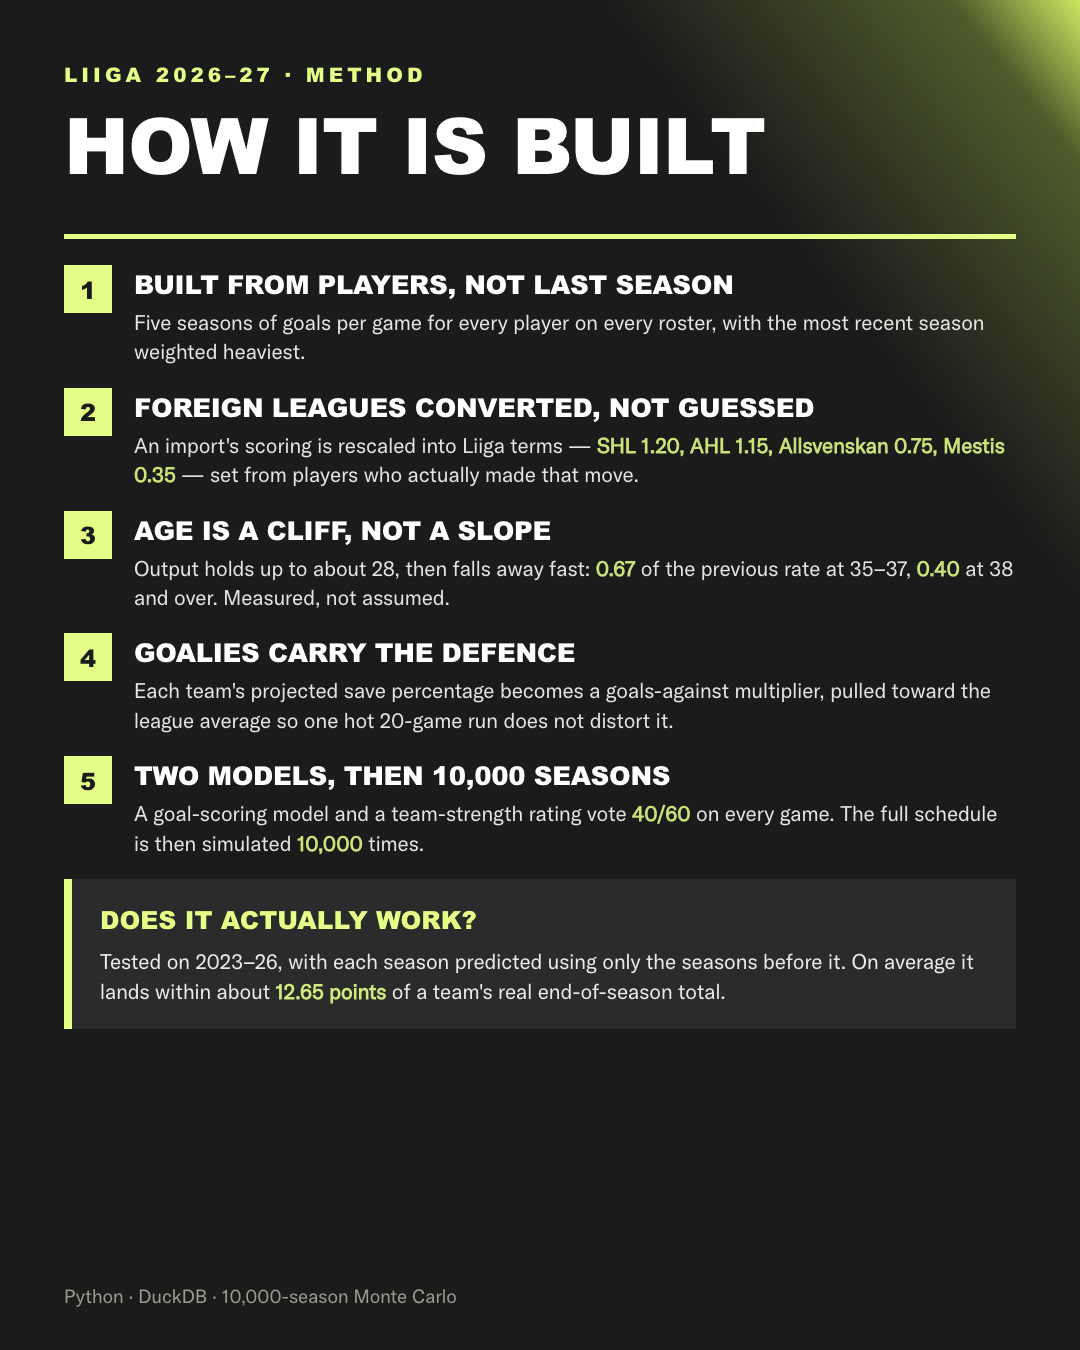
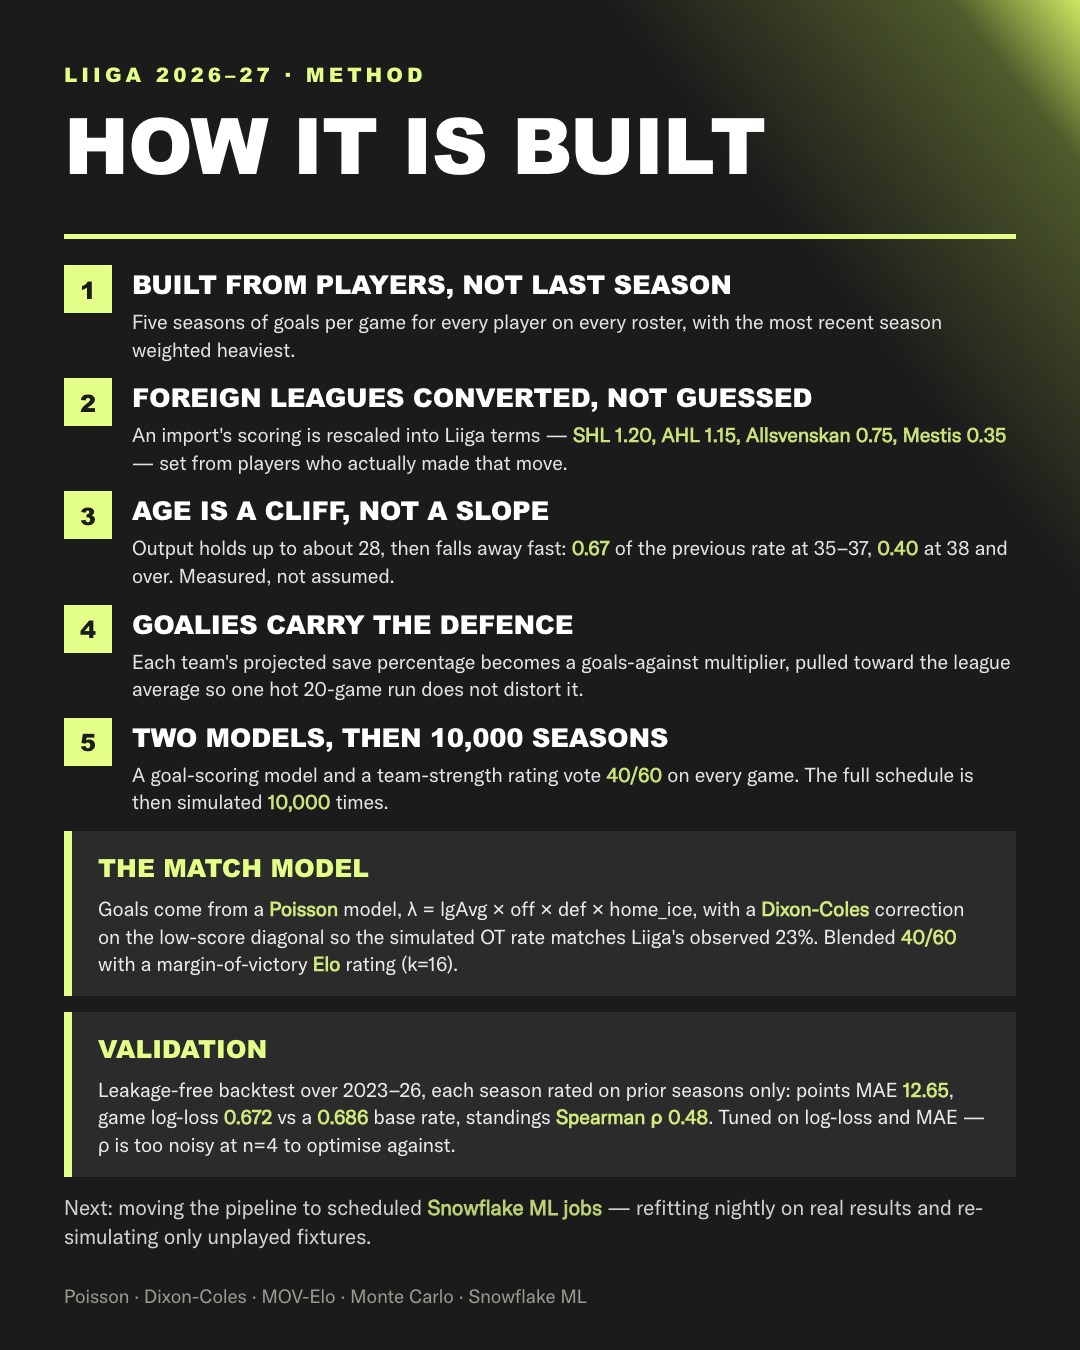
Carousel: drop slide 5, fold match model + validation into slide 4
Carousel is now four slides. The match-model and validation callouts move onto
the method slide, which had roughly 20% unused height; tightened step spacing
and body type slightly to fit them without overflow.

Kept the Snowflake ML message as a closing line on slide 4 rather than losing
it with slide 5 -- it was an explicit earlier requirement. Say the word if it
should go entirely.

Removed the stale slide_5 png/html, trimmed GRADIENTS to four, and updated the
module docstring and preview page, which both still described a five-slide set.

Changed region(s): [[0.0611, 0.1867, 0.9472, 0.9644], [0.5806, 0.8711, 0.8861, 0.9022]]

diff --git a/site_instagram/slide_4.html b/site_instagram/slide_4.html
@@ -41,7 +41,7 @@
   .ptsr { font-size:21px; color:#e3ff87; margin-top:5px; opacity:0.85; }
 
   /* ---- technical slides ---- */
-  .step { display:flex; gap:22px; margin-bottom:21px; align-items:flex-start; }
+  .step { display:flex; gap:20px; margin-bottom:15px; align-items:flex-start; }
   .num { min-width:48px; height:48px; background:#e3ff87; color:#1b1b1b;
          font-family:"GT America Expanded","Arial Black",Arial,sans-serif; font-size:24px; display:flex;
          align-items:center; justify-content:center; }
@@ -49,14 +49,17 @@
      otherwise every highlighted parameter becomes its own block heading */
   .txt > b { font-family:"GT America Expanded","Arial Black",Arial,sans-serif; font-size:26px; display:block; color:#FFFFFF;
              margin-bottom:6px; text-transform:uppercase; letter-spacing:-0.3px; }
-  .txt span { font-size:21px; line-height:1.4; color:#FFFFFF; opacity:0.88; }
+  .txt span { font-size:20px; line-height:1.38; color:#FFFFFF; opacity:0.88; }
   .txt span b, .callout span b { color:#e3ff87; opacity:1; }
   .callout { background:rgba(255,255,255,0.07); border-left:8px solid #e3ff87;
-             padding:22px 28px; margin-top:4px; }
+             padding:18px 26px; margin-top:4px; }
   .callout > b { font-family:"GT America Expanded","Arial Black",Arial,sans-serif; font-size:25px; display:block;
                  margin-bottom:10px; color:#e3ff87; text-transform:uppercase; }
-  .callout span { font-size:21px; line-height:1.42; color:#FFFFFF; opacity:0.9; }
+  .callout span { font-size:20px; line-height:1.38; color:#FFFFFF; opacity:0.9; }
   .big { font-size:29px; line-height:1.4; color:#FFFFFF; }
+  .next { font-size:21px; line-height:1.4; margin-top:16px; color:#FFFFFF;
+          opacity:0.8; }
+  .next b { color:#e3ff87; opacity:1; }
 </style></head><body>
   <div class="slide">
     <div class="head">
@@ -67,11 +70,24 @@
     <div class="body">
       <div class="step"><div class="num">1</div><div class="txt"><b>Built from players, not last season</b><span>Five seasons of goals per game for every player on every roster, with the most recent season weighted heaviest.</span></div></div><div class="step"><div class="num">2</div><div class="txt"><b>Foreign leagues converted, not guessed</b><span>An import's scoring is rescaled into Liiga terms — <b>SHL 1.20, AHL 1.15, Allsvenskan 0.75, Mestis 0.35</b> — set from players who actually made that move.</span></div></div><div class="step"><div class="num">3</div><div class="txt"><b>Age is a cliff, not a slope</b><span>Output holds up to about 28, then falls away fast: <b>0.67</b> of the previous rate at 35–37, <b>0.40</b> at 38 and over. Measured, not assumed.</span></div></div><div class="step"><div class="num">4</div><div class="txt"><b>Goalies carry the defence</b><span>Each team's projected save percentage becomes a goals-against multiplier, pulled toward the league average so one hot 20-game run does not distort it.</span></div></div><div class="step"><div class="num">5</div><div class="txt"><b>Two models, then 10,000 seasons</b><span>A goal-scoring model and a team-strength rating vote <b>40/60</b> on every game. The full schedule is then simulated <b>10,000</b> times.</span></div></div>
       <div class="callout">
-        <b>Does it actually work?</b>
-        <span>Tested on 2023–26, with each season predicted using only the
-        seasons before it. On average it lands within about
-        <b>12.65 points</b> of a team's real end-of-season total.</span>
+        <b>The match model</b>
+        <span>Goals come from a <b>Poisson</b> model,
+        λ = lgAvg × off × def × home_ice, with a <b>Dixon-Coles</b> correction
+        on the low-score diagonal so the simulated OT rate matches Liiga's
+        observed 23%. Blended <b>40/60</b> with a
+        margin-of-victory <b>Elo</b> rating (k=16).</span>
       </div>
+      <div class="callout" style="margin-top:16px">
+        <b>Validation</b>
+        <span>Leakage-free backtest over 2023–26, each season rated on prior
+        seasons only: points MAE <b>12.65</b>, game log-loss
+        <b>0.672</b> vs a <b>0.686</b> base rate, standings
+        <b>Spearman ρ 0.48</b>. Tuned on log-loss and MAE — ρ is too noisy at
+        n=4 to optimise against.</span>
+      </div>
+      <p class="next">Next: moving the pipeline to scheduled
+      <b>Snowflake ML jobs</b> — refitting nightly on real results and
+      re-simulating only unplayed fixtures.</p>
     </div>
-    <div class="foot">Python · DuckDB · 10,000-season Monte Carlo</div>
+    <div class="foot">Poisson · Dixon-Coles · MOV-Elo · Monte Carlo · Snowflake ML</div>
   </div></body></html>

diff --git a/site_instagram/slide_1.html b/site_instagram/slide_1.html
@@ -41,7 +41,7 @@
   .ptsr { font-size:21px; color:#e3ff87; margin-top:5px; opacity:0.85; }
 
   /* ---- technical slides ---- */
-  .step { display:flex; gap:22px; margin-bottom:21px; align-items:flex-start; }
+  .step { display:flex; gap:20px; margin-bottom:15px; align-items:flex-start; }
   .num { min-width:48px; height:48px; background:#e3ff87; color:#1b1b1b;
          font-family:"GT America Expanded","Arial Black",Arial,sans-serif; font-size:24px; display:flex;
          align-items:center; justify-content:center; }
@@ -49,14 +49,17 @@
      otherwise every highlighted parameter becomes its own block heading */
   .txt > b { font-family:"GT America Expanded","Arial Black",Arial,sans-serif; font-size:26px; display:block; color:#FFFFFF;
              margin-bottom:6px; text-transform:uppercase; letter-spacing:-0.3px; }
-  .txt span { font-size:21px; line-height:1.4; color:#FFFFFF; opacity:0.88; }
+  .txt span { font-size:20px; line-height:1.38; color:#FFFFFF; opacity:0.88; }
   .txt span b, .callout span b { color:#e3ff87; opacity:1; }
   .callout { background:rgba(255,255,255,0.07); border-left:8px solid #e3ff87;
-             padding:22px 28px; margin-top:4px; }
+             padding:18px 26px; margin-top:4px; }
   .callout > b { font-family:"GT America Expanded","Arial Black",Arial,sans-serif; font-size:25px; display:block;
                  margin-bottom:10px; color:#e3ff87; text-transform:uppercase; }
-  .callout span { font-size:21px; line-height:1.42; color:#FFFFFF; opacity:0.9; }
+  .callout span { font-size:20px; line-height:1.38; color:#FFFFFF; opacity:0.9; }
   .big { font-size:29px; line-height:1.4; color:#FFFFFF; }
+  .next { font-size:21px; line-height:1.4; margin-top:16px; color:#FFFFFF;
+          opacity:0.8; }
+  .next b { color:#e3ff87; opacity:1; }
 </style></head><body>
   <div class="slide">
     <div class="head">

diff --git a/site_instagram/slide_2.html b/site_instagram/slide_2.html
@@ -41,7 +41,7 @@
   .ptsr { font-size:21px; color:#e3ff87; margin-top:5px; opacity:0.85; }
 
   /* ---- technical slides ---- */
-  .step { display:flex; gap:22px; margin-bottom:21px; align-items:flex-start; }
+  .step { display:flex; gap:20px; margin-bottom:15px; align-items:flex-start; }
   .num { min-width:48px; height:48px; background:#e3ff87; color:#1b1b1b;
          font-family:"GT America Expanded","Arial Black",Arial,sans-serif; font-size:24px; display:flex;
          align-items:center; justify-content:center; }
@@ -49,14 +49,17 @@
      otherwise every highlighted parameter becomes its own block heading */
   .txt > b { font-family:"GT America Expanded","Arial Black",Arial,sans-serif; font-size:26px; display:block; color:#FFFFFF;
              margin-bottom:6px; text-transform:uppercase; letter-spacing:-0.3px; }
-  .txt span { font-size:21px; line-height:1.4; color:#FFFFFF; opacity:0.88; }
+  .txt span { font-size:20px; line-height:1.38; color:#FFFFFF; opacity:0.88; }
   .txt span b, .callout span b { color:#e3ff87; opacity:1; }
   .callout { background:rgba(255,255,255,0.07); border-left:8px solid #e3ff87;
-             padding:22px 28px; margin-top:4px; }
+             padding:18px 26px; margin-top:4px; }
   .callout > b { font-family:"GT America Expanded","Arial Black",Arial,sans-serif; font-size:25px; display:block;
                  margin-bottom:10px; color:#e3ff87; text-transform:uppercase; }
-  .callout span { font-size:21px; line-height:1.42; color:#FFFFFF; opacity:0.9; }
+  .callout span { font-size:20px; line-height:1.38; color:#FFFFFF; opacity:0.9; }
   .big { font-size:29px; line-height:1.4; color:#FFFFFF; }
+  .next { font-size:21px; line-height:1.4; margin-top:16px; color:#FFFFFF;
+          opacity:0.8; }
+  .next b { color:#e3ff87; opacity:1; }
 </style></head><body>
   <div class="slide">
     <div class="head">

diff --git a/site_instagram/slide_3.html b/site_instagram/slide_3.html
@@ -41,7 +41,7 @@
   .ptsr { font-size:21px; color:#e3ff87; margin-top:5px; opacity:0.85; }
 
   /* ---- technical slides ---- */
-  .step { display:flex; gap:22px; margin-bottom:21px; align-items:flex-start; }
+  .step { display:flex; gap:20px; margin-bottom:15px; align-items:flex-start; }
   .num { min-width:48px; height:48px; background:#e3ff87; color:#1b1b1b;
          font-family:"GT America Expanded","Arial Black",Arial,sans-serif; font-size:24px; display:flex;
          align-items:center; justify-content:center; }
@@ -49,14 +49,17 @@
      otherwise every highlighted parameter becomes its own block heading */
   .txt > b { font-family:"GT America Expanded","Arial Black",Arial,sans-serif; font-size:26px; display:block; color:#FFFFFF;
              margin-bottom:6px; text-transform:uppercase; letter-spacing:-0.3px; }
-  .txt span { font-size:21px; line-height:1.4; color:#FFFFFF; opacity:0.88; }
+  .txt span { font-size:20px; line-height:1.38; color:#FFFFFF; opacity:0.88; }
   .txt span b, .callout span b { color:#e3ff87; opacity:1; }
   .callout { background:rgba(255,255,255,0.07); border-left:8px solid #e3ff87;
-             padding:22px 28px; margin-top:4px; }
+             padding:18px 26px; margin-top:4px; }
   .callout > b { font-family:"GT America Expanded","Arial Black",Arial,sans-serif; font-size:25px; display:block;
                  margin-bottom:10px; color:#e3ff87; text-transform:uppercase; }
-  .callout span { font-size:21px; line-height:1.42; color:#FFFFFF; opacity:0.9; }
+  .callout span { font-size:20px; line-height:1.38; color:#FFFFFF; opacity:0.9; }
   .big { font-size:29px; line-height:1.4; color:#FFFFFF; }
+  .next { font-size:21px; line-height:1.4; margin-top:16px; color:#FFFFFF;
+          opacity:0.8; }
+  .next b { color:#e3ff87; opacity:1; }
 </style></head><body>
   <div class="slide">
     <div class="head">

diff --git a/site_instagram/index.html b/site_instagram/index.html
@@ -13,9 +13,9 @@
 </style></head><body>
 <h1>Liiga 2026-27 — carousel</h1>
 <p class="lead">Five 1080×1350 images. Upload <code>slide_1.png</code> …
-<code>slide_5.png</code> in order. Regenerate with
+<code>slide_4.png</code> in order. Regenerate with
 <code>python scripts/build_instagram.py</code>.</p>
-<div class="grid"><figure><img src="slide_1.png"></figure><figure><img src="slide_2.png"></figure><figure><img src="slide_3.png"></figure><figure><img src="slide_4.png"></figure><figure><img src="slide_5.png"></figure></div>
+<div class="grid"><figure><img src="slide_1.png"></figure><figure><img src="slide_2.png"></figure><figure><img src="slide_3.png"></figure><figure><img src="slide_4.png"></figure></div>
 <h2 style="font-size:18px">Caption</h2>
 <textarea readonly>I built a bottom-up model that projects the full Liiga 2026–27 table. Swipe for places 1–17, plus the method.
 

diff --git a/scripts/build_instagram.py b/scripts/build_instagram.py
@@ -3,13 +3,11 @@
 SEPARATE from the main infographic. Reads the same DuckDB tables as
 scripts/build_site.py but writes to site_instagram/ and never touches site/.
 
-Five 1080x1350 (4:5) PNGs. Backgrounds run as a ramp from the brand yellow
-down to near-black across the carousel; text and accent colours flip with
-background luminance so contrast holds on every slide.
+Four 1080x1350 (4:5) PNGs, all black-dominant with a yellow bloom in the
+top-right corner that varies slide to slide.
 
-    slide_1  places 1-6      slide_4  how it is built (technical)
-    slide_2  places 7-12     slide_5  what runs next (Snowflake ML)
-    slide_3  places 13-17
+    slide_1  places 1-6       slide_3  places 13-17
+    slide_2  places 7-12      slide_4  method, match model, validation
 
 Audience is data practitioners, so the method slide and caption are written
 with concrete parameters rather than analogies.
@@ -52,7 +50,6 @@ GRADIENTS = [
     "linear-gradient(to bottom left, #d9f56f 0%, #5d6b31 7%, #1b1b1b 25%)",
     "linear-gradient(to bottom left, #e3ff87 0%, #667535 11%, #1b1b1b 34%)",
     "linear-gradient(to bottom left, #cbe862 0%, #4f5b2b 6%, #1b1b1b 22%)",
-    "linear-gradient(to bottom left, #e3ff87 0%, #5a6830 8%, #1b1b1b 27%)",
 ]
 
 HEAD_F = '"GT America Expanded","Arial Black",Arial,sans-serif'
@@ -128,7 +125,7 @@ def css(t: dict) -> str:
   .ptsr {{ font-size:21px; color:{t['accent']}; margin-top:5px; opacity:0.85; }}
 
   /* ---- technical slides ---- */
-  .step {{ display:flex; gap:22px; margin-bottom:21px; align-items:flex-start; }}
+  .step {{ display:flex; gap:20px; margin-bottom:15px; align-items:flex-start; }}
   .num {{ min-width:48px; height:48px; background:{t['accent']}; color:{INK};
          font-family:{HEAD_F}; font-size:24px; display:flex;
          align-items:center; justify-content:center; }}
@@ -136,14 +133,17 @@ def css(t: dict) -> str:
      otherwise every highlighted parameter becomes its own block heading */
   .txt > b {{ font-family:{HEAD_F}; font-size:26px; display:block; color:{t['fg']};
              margin-bottom:6px; text-transform:uppercase; letter-spacing:-0.3px; }}
-  .txt span {{ font-size:21px; line-height:1.4; color:{t['fg']}; opacity:0.88; }}
+  .txt span {{ font-size:20px; line-height:1.38; color:{t['fg']}; opacity:0.88; }}
   .txt span b, .callout span b {{ color:{t['accent']}; opacity:1; }}
   .callout {{ background:{t['panel']}; border-left:8px solid {t['bar']};
-             padding:22px 28px; margin-top:4px; }}
+             padding:18px 26px; margin-top:4px; }}
   .callout > b {{ font-family:{HEAD_F}; font-size:25px; display:block;
                  margin-bottom:10px; color:{t['accent']}; text-transform:uppercase; }}
-  .callout span {{ font-size:21px; line-height:1.42; color:{t['fg']}; opacity:0.9; }}
+  .callout span {{ font-size:20px; line-height:1.38; color:{t['fg']}; opacity:0.9; }}
   .big {{ font-size:29px; line-height:1.4; color:{t['fg']}; }}
+  .next {{ font-size:21px; line-height:1.4; margin-top:16px; color:{t['fg']};
+          opacity:0.8; }}
+  .next b {{ color:{t['accent']}; opacity:1; }}
 """
 
 
@@ -211,54 +211,26 @@ def how_slide(t: dict) -> str:
     <div class="body">
       {items}
       <div class="callout">
-        <b>Does it actually work?</b>
-        <span>Tested on 2023–26, with each season predicted using only the
-        seasons before it. On average it lands within about
-        <b>{BACKTEST_MAE} points</b> of a team's real end-of-season total.</span>
-      </div>
-    </div>
-    <div class="foot">Python · DuckDB · 10,000-season Monte Carlo</div>
-  </div>""")
-
-
-def next_slide(t: dict) -> str:
-    """Technical slide: this is where the modelling vocabulary lives, so the
-    method slide can stay plain-language for a general reader."""
-    return page(t, f"""
-  <div class="slide">
-    <div class="head">
-      <div class="kicker">Liiga 2026–27 · Under the hood</div>
-      <div class="title">The model,<br>and what's next</div>
-    </div>
-    <div class="rule"></div>
-    <div class="body">
-      <div class="callout">
         <b>The match model</b>
-        <span>Goals are drawn from a <b>Poisson</b> model,
+        <span>Goals come from a <b>Poisson</b> model,
         λ = lgAvg × off × def × home_ice, with a <b>Dixon-Coles</b> correction
-        inflating the low-score diagonal so the simulated OT rate matches
-        Liiga's observed 23%. That is blended <b>{POISSON_PCT}/{ELO_PCT}</b>
-        with a margin-of-victory <b>Elo</b> rating (k=16).</span>
+        on the low-score diagonal so the simulated OT rate matches Liiga's
+        observed 23%. Blended <b>{POISSON_PCT}/{ELO_PCT}</b> with a
+        margin-of-victory <b>Elo</b> rating (k=16).</span>
       </div>
-      <div class="callout" style="margin-top:20px">
+      <div class="callout" style="margin-top:16px">
         <b>Validation</b>
         <span>Leakage-free backtest over 2023–26, each season rated on prior
         seasons only: points MAE <b>{BACKTEST_MAE}</b>, game log-loss
-        <b>0.672</b> against a <b>0.686</b> base rate, standings
-        <b>Spearman ρ 0.48</b>. Tuned on log-loss and MAE — ρ is far too noisy
-        at n=4 to optimise against.</span>
+        <b>0.672</b> vs a <b>0.686</b> base rate, standings
+        <b>Spearman ρ 0.48</b>. Tuned on log-loss and MAE — ρ is too noisy at
+        n=4 to optimise against.</span>
       </div>
-      <div class="callout" style="margin-top:20px">
-        <b>Next: Snowflake ML jobs</b>
-        <span>Porting the pipeline to <b>Snowflake ML jobs</b> on a nightly
-        schedule — ingesting box scores, refitting Elo on current results, and
-        re-simulating <b>only unplayed fixtures</b> while banking points
-        already earned. The pre-season prior decays as real games accumulate.</span>
-      </div>
-      <p class="big" style="margin-top:22px">I will publish the error as it
-      moves — including where it was wrong.</p>
+      <p class="next">Next: moving the pipeline to scheduled
+      <b>Snowflake ML jobs</b> — refitting nightly on real results and
+      re-simulating only unplayed fixtures.</p>
     </div>
-    <div class="foot">Poisson · Dixon-Coles · MOV-Elo · Monte Carlo · Snowpark</div>
+    <div class="foot">Poisson · Dixon-Coles · MOV-Elo · Monte Carlo · Snowflake ML</div>
   </div>""")
 
 
@@ -316,7 +288,6 @@ def build() -> None:
         rows = list(st[(st.proj_rank >= lo) & (st.proj_rank <= hi)].itertuples())
         slides.append(standings_slide(rows, lo, hi, themes[i], bands))
     slides.append(how_slide(themes[3]))
-    slides.append(next_slide(themes[4]))
 
     for i, html in enumerate(slides, 1):
         src, png = OUT / f"slide_{i}.html", OUT / f"slide_{i}.png"
@@ -345,7 +316,7 @@ def build() -> None:
 </style></head><body>
 <h1>Liiga 2026-27 — carousel</h1>
 <p class="lead">Five {W}×{H} images. Upload <code>slide_1.png</code> …
-<code>slide_5.png</code> in order. Regenerate with
+<code>slide_4.png</code> in order. Regenerate with
 <code>python scripts/build_instagram.py</code>.</p>
 <div class="grid">{figs}</div>
 <h2 style="font-size:18px">Caption</h2>
